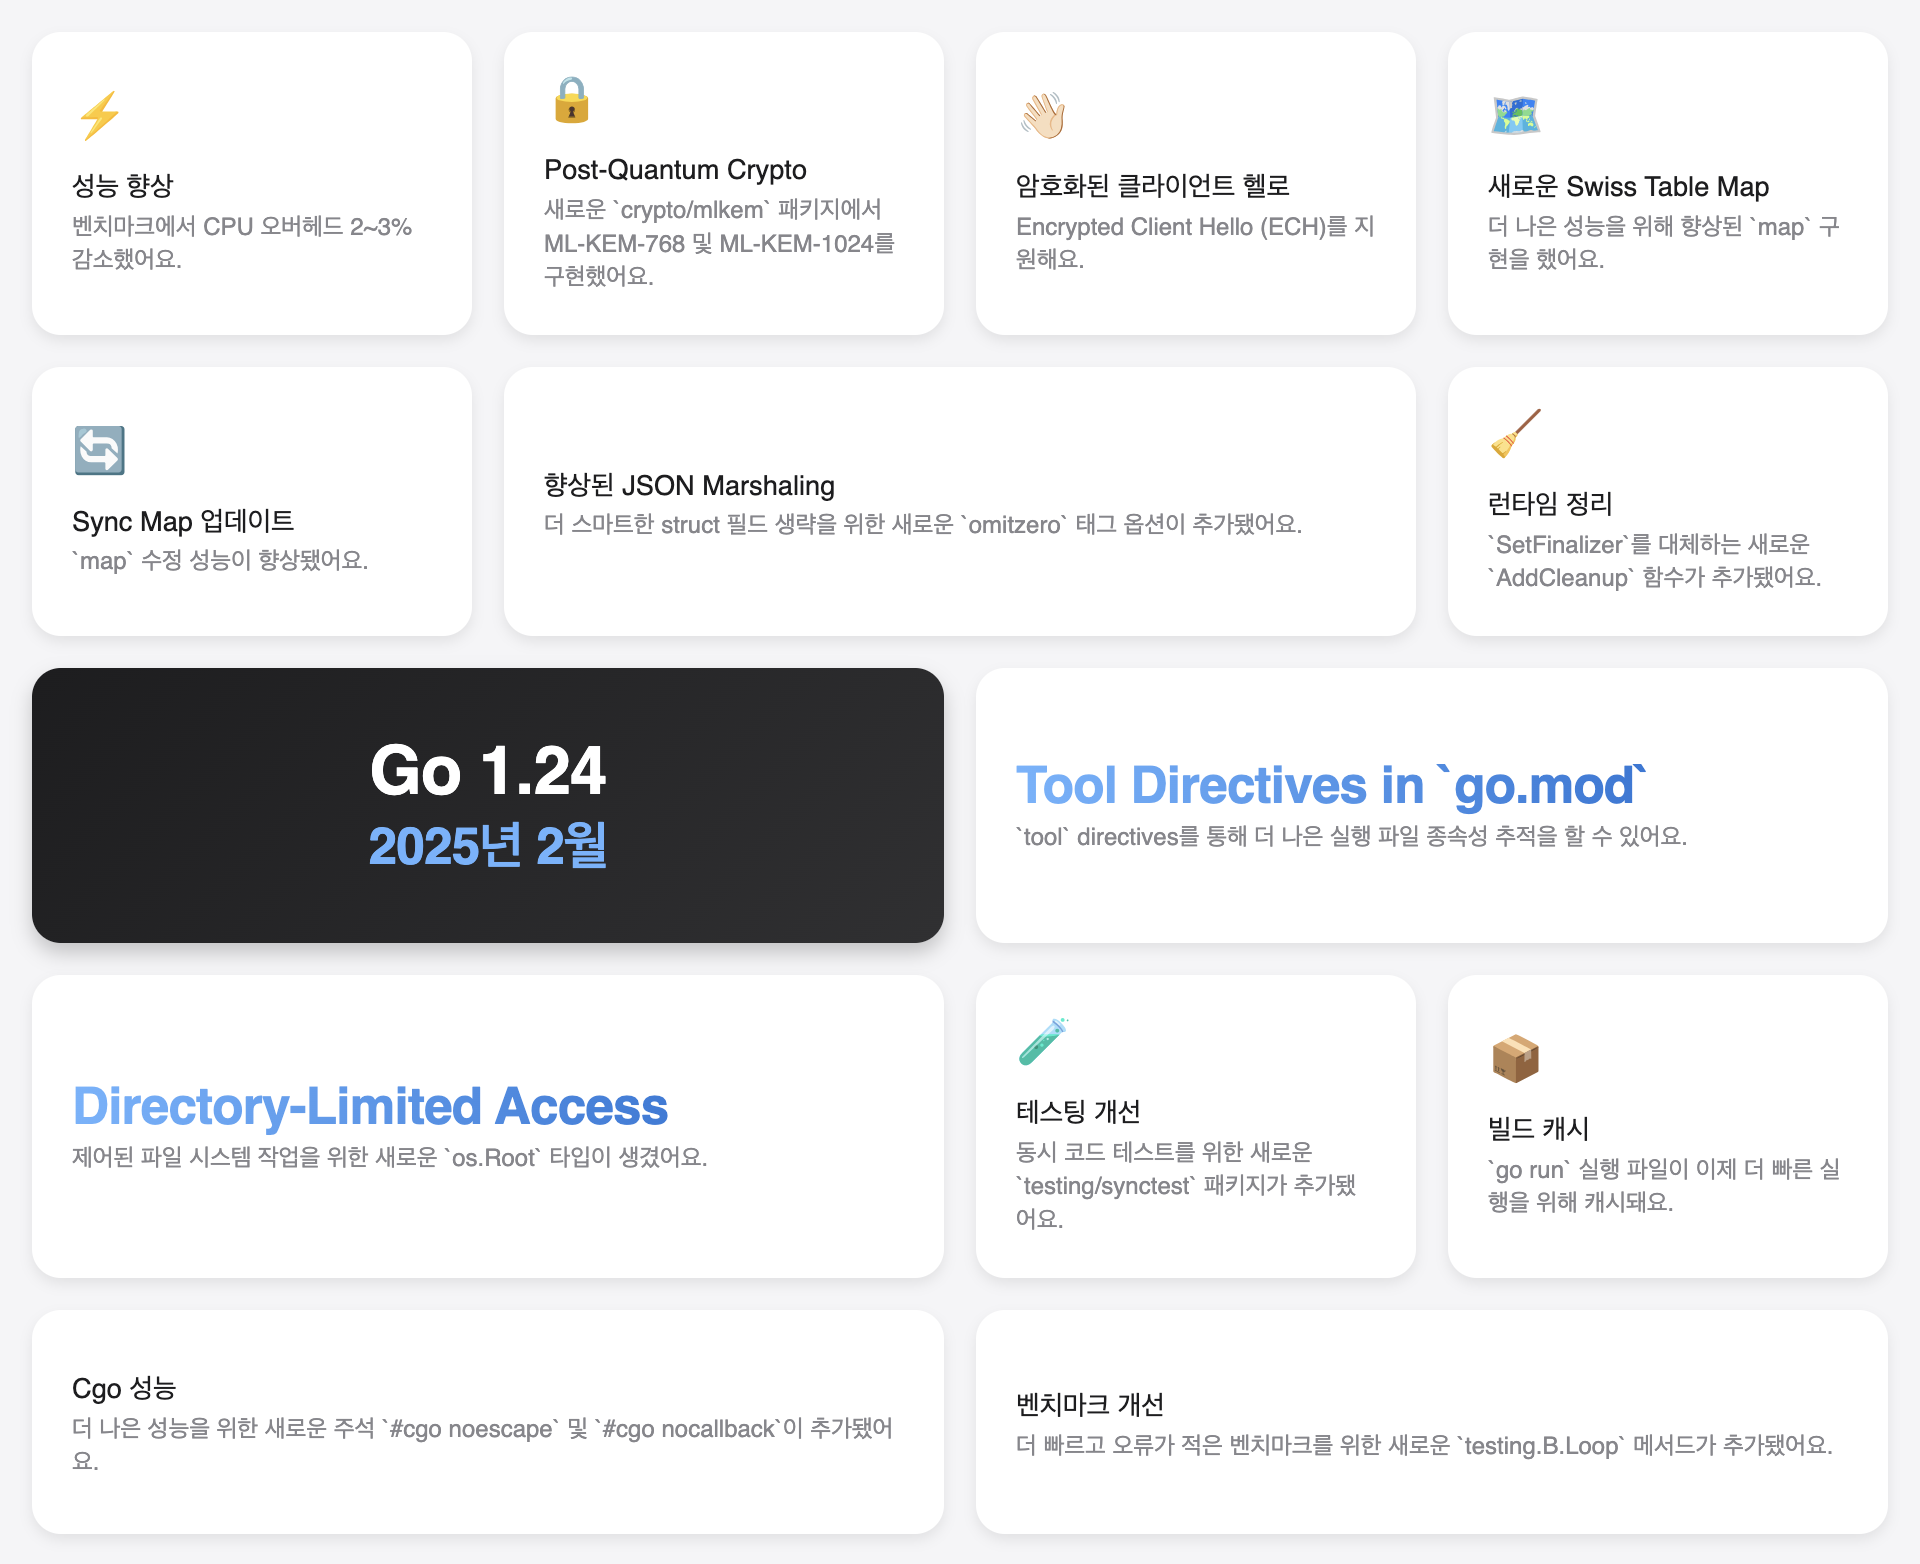
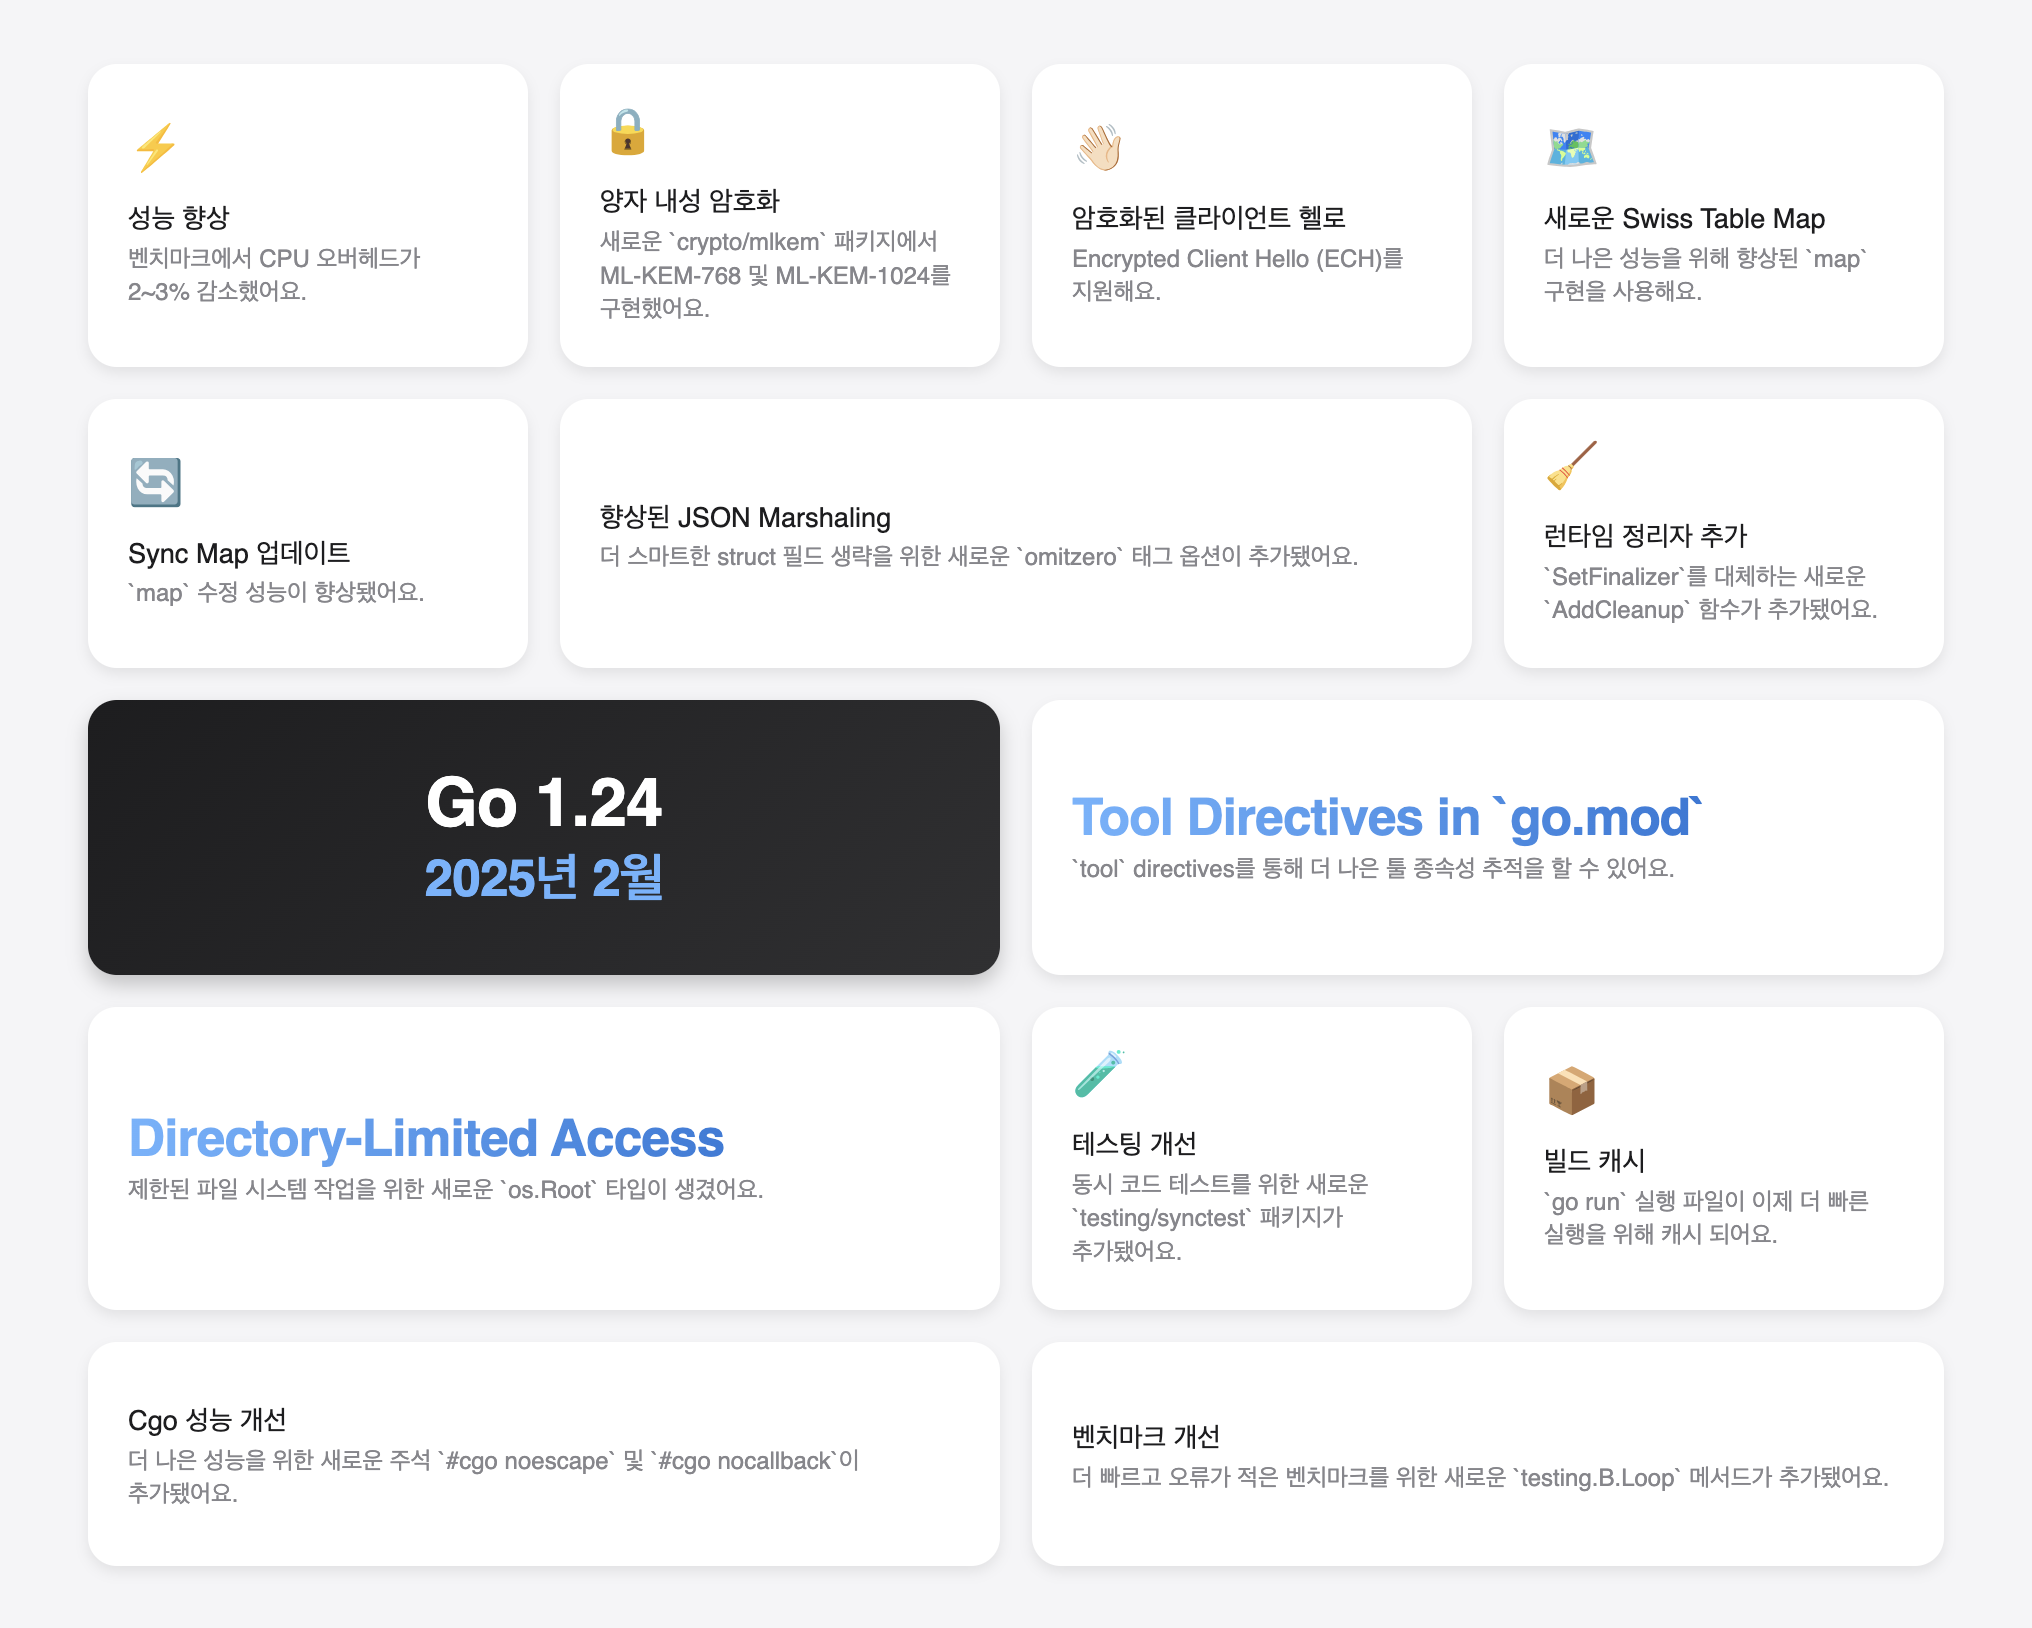
Fix Korean

diff --git a/go1.24/overview-ko.html b/go1.24/overview-ko.html
@@ -17,6 +17,7 @@
         padding: 0;
         font-family: Helvetica, "Noto Color Emoji", -apple-system,
           "Apple SD Gothic Neo", "Noto Sans KR", sans-serif;
+        word-break: keep-all;
       }
 
       body {
@@ -221,12 +222,12 @@
         <div class="spec-card">
           <div class="icon">⚡</div>
           <div class="title">성능 향상</div>
-          <div class="subtitle">벤치마크에서 CPU 오버헤드 2~3% 감소했어요.</div>
+          <div class="subtitle">벤치마크에서 CPU 오버헤드가 2~3% 감소했어요.</div>
         </div>
 
         <div class="spec-card">
           <div class="icon">🔒</div>
-          <div class="title">Post-Quantum Crypto</div>
+          <div class="title">양자 내성 암호화</div>
           <div class="subtitle">
             새로운 `crypto/mlkem` 패키지에서 ML-KEM-768 및 ML-KEM-1024를
             구현했어요.
@@ -243,7 +244,7 @@
           <div class="icon">🗺</div>
           <div class="title">새로운 Swiss Table Map</div>
           <div class="subtitle">
-            더 나은 성능을 위해 향상된 `map` 구현을 했어요.
+            더 나은 성능을 위해 향상된 `map` 구현을 사용해요.
           </div>
         </div>
 
@@ -263,7 +264,7 @@
 
         <div class="spec-card">
           <div class="icon">🧹</div>
-          <div class="title">런타임 정리</div>
+          <div class="title">런타임 정리자 추가</div>
           <div class="subtitle">
             `SetFinalizer`를 대체하는 새로운 `AddCleanup` 함수가 추가됐어요.
           </div>
@@ -279,7 +280,7 @@
         <div class="spec-card wide">
           <div class="blue-text">Tool Directives in `go.mod`</div>
           <div class="subtitle">
-            `tool` directives를 통해 더 나은 실행 파일 종속성 추적을 할 수
+            `tool` directives를 통해 더 나은 툴 종속성 추적을 할 수
             있어요.
           </div>
         </div>
@@ -287,7 +288,7 @@
         <div class="spec-card wide">
           <div class="blue-text">Directory-Limited Access</div>
           <div class="subtitle">
-            제어된 파일 시스템 작업을 위한 새로운 `os.Root` 타입이 생겼어요.
+            제한된 파일 시스템 작업을 위한 새로운 `os.Root` 타입이 생겼어요.
           </div>
         </div>
 
@@ -304,15 +305,15 @@
           <div class="icon">📦</div>
           <div class="title">빌드 캐시</div>
           <div class="subtitle">
-            `go run` 실행 파일이 이제 더 빠른 실행을 위해 캐시돼요.
+            `go run` 실행 파일이 이제 더 빠른 실행을 위해 캐시 되어요.
           </div>
         </div>
 
         <div class="spec-card wide">
-          <div class="title">Cgo 성능</div>
+          <div class="title">Cgo 성능 개선</div>
           <div class="subtitle">
-            더 나은 성능을 위한 새로운 주석 `#cgo noescape` 및 `#cgo
-            nocallback`이 추가됐어요.
+            더 나은 성능을 위한 새로운 주석 `#cgo noescape` 및 `#cgo nocallback`이
+            추가됐어요.
           </div>
         </div>
 
